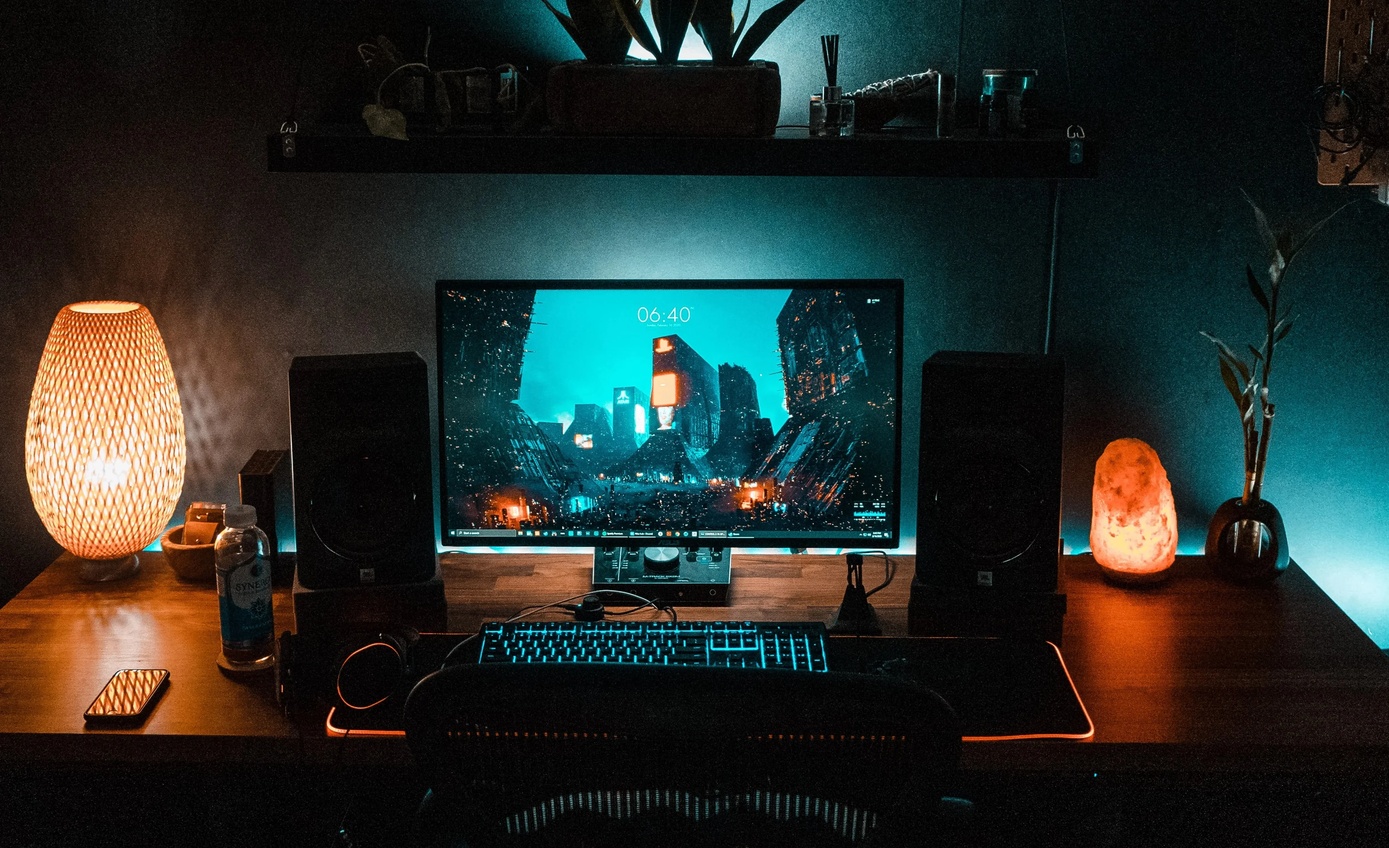
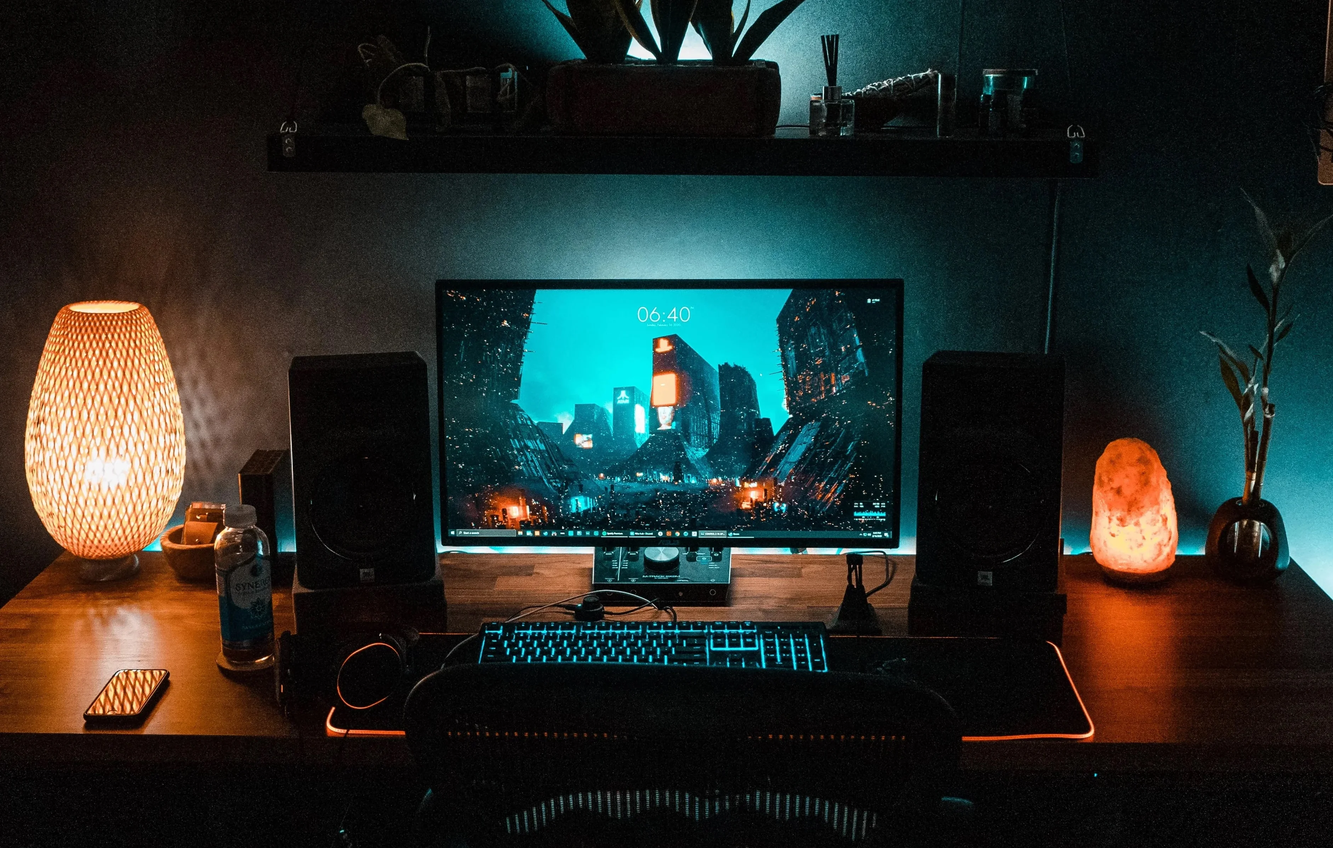
Omformatterade bilderna från jpeg till webp

diff --git a/about.html b/about.html
@@ -41,7 +41,7 @@
     <div id="aboutpageimage"></div>
     <h1>HEALTHYGAMERGG</h1>
     <article class="personal">
-        <img id="person1" src="css/media/person.jpg" alt="Anställd person">
+        <img id="person1" src="css/media/person.webp" alt="Anställd person">
         <div id="person1beskrivning">
             <h1>En cool anställd</h1>
             <p>Lorem ipsum dolor sit amet consectetur adipisicing elit. Vel eveniet nemo deleniti odio, temporibus, alias ipsam earum molestiae repudiandae voluptatem fuga expedita in officia eum sit ad accusantium, sapiente optio magni beatae ducimus maiores asperiores mollitia debitis. Obcaecati aliquid asperiores aperiam dicta laudantium dolorum. Distinctio, deleniti? Dolorum minus, explicabo architecto recusandae nesciunt eaque consequuntur ut eos quos reiciendis quia, esse laboriosam nobis illo? Corporis repudiandae esse voluptate tempora itaque porro.</p>
@@ -56,7 +56,7 @@
                 Perspiciatis iure nisi vel, autem inventore rem illum aut mollitia aperiam eveniet numquam, est officiis.
                 Laborum inventore dicta qui quaerat nobis corporis minima, iure, eligendi voluptates animi, nemo alias.</p>
         </div>
-        <img id="person2" src="css/media/person2.jpg" alt="Anställd person">
+        <img id="person2" src="css/media/person2.webp" alt="Anställd person">
     </article>
 </body>
 

diff --git a/index.html b/index.html
@@ -38,9 +38,9 @@
             <h1>Programs</h1>
         </div>
         <ul>
-            <li><a href="https://www.healthygamer.gg/coaching">Gamer program</a></li>
+            <li><a target="_blank" rel="noopener" href="https://www.healthygamer.gg/coaching">Gamer program</a></li>
             <li class="blank"></li>
-            <li><a href="https://signup.healthygamer.gg/action-plan/">Family program</a></li>
+            <li><a target="_blank" rel="noopener" href="https://signup.healthygamer.gg/action-plan/">Family program</a></li>
         </ul>
     </div>
     <h1>HEALTHYGAMERGG</h1>

diff --git a/css/addictionfacts.css b/css/addictionfacts.css
@@ -8,7 +8,7 @@
 #factbox1 {
   height: 60vh;
   width: auto;
-  background-image: url(media/wasd.jpg);
+  background-image: url(media/wasd.webp);
   background-size: 100vw 80vh;
   display: grid;
   grid-template-columns: 1fr 2fr 3fr;
@@ -30,7 +30,7 @@
 #factbox2 {
   height: 60vh;
   width: auto;
-  background-image: url(media/ps4console.jpg);
+  background-image: url(media/ps4console.webp);
   background-size: 100vw 120vh;
   display: grid;
   grid-template-columns: 3fr 2fr 1fr;

diff --git a/facts.html b/facts.html
@@ -55,8 +55,8 @@
             <h2>Maybe</h2>
         </section>
         <section id="info3">
-            <h1>We do not know</h1>
-            <h2>If these facts are true</h2>
+            <h1>Im actually</h1>
+            <h2>Kinda proud of this website</h2>
         </section>
     </div>
     <div id="factbox2">

diff --git a/css/mainpage.css b/css/mainpage.css
@@ -10,7 +10,7 @@
   display: grid;
   grid-template-columns: repeat(10, 1fr);
   grid-template-rows: repeat(5, 1fr);
-  background-image: url(media/background-main.jpg);
+  background-image: url(media/background-main.webp);
   height: 80vh;
   width: auto;
   background-size: cover;

diff --git a/css/news.css b/css/news.css
@@ -12,7 +12,7 @@
   align-items: center;
   text-decoration: underline;
   color: var(--color3);
-  background-image: url(media/news.jpg);
+  background-image: url(media/news.webp);
   background-position: center;
   background-size: cover;
   height: 70vh;

diff --git a/css/socials.css b/css/socials.css
@@ -7,7 +7,7 @@
 }
 
 #socialmedia {
-  background-image: url(media/socialmedia.jpg);
+  background-image: url(media/socialmedia.webp);
   background-position: 50% 55%;
   background-size: cover;
   height: 80vh;

diff --git a/css/about.css b/css/about.css
@@ -7,7 +7,7 @@
 }
 
 #aboutpageimage {
-  background-image: url(media/friends.jpg);
+  background-image: url(media/friends.webp);
   background-size: cover;
   width: auto;
   height: 70vh;
